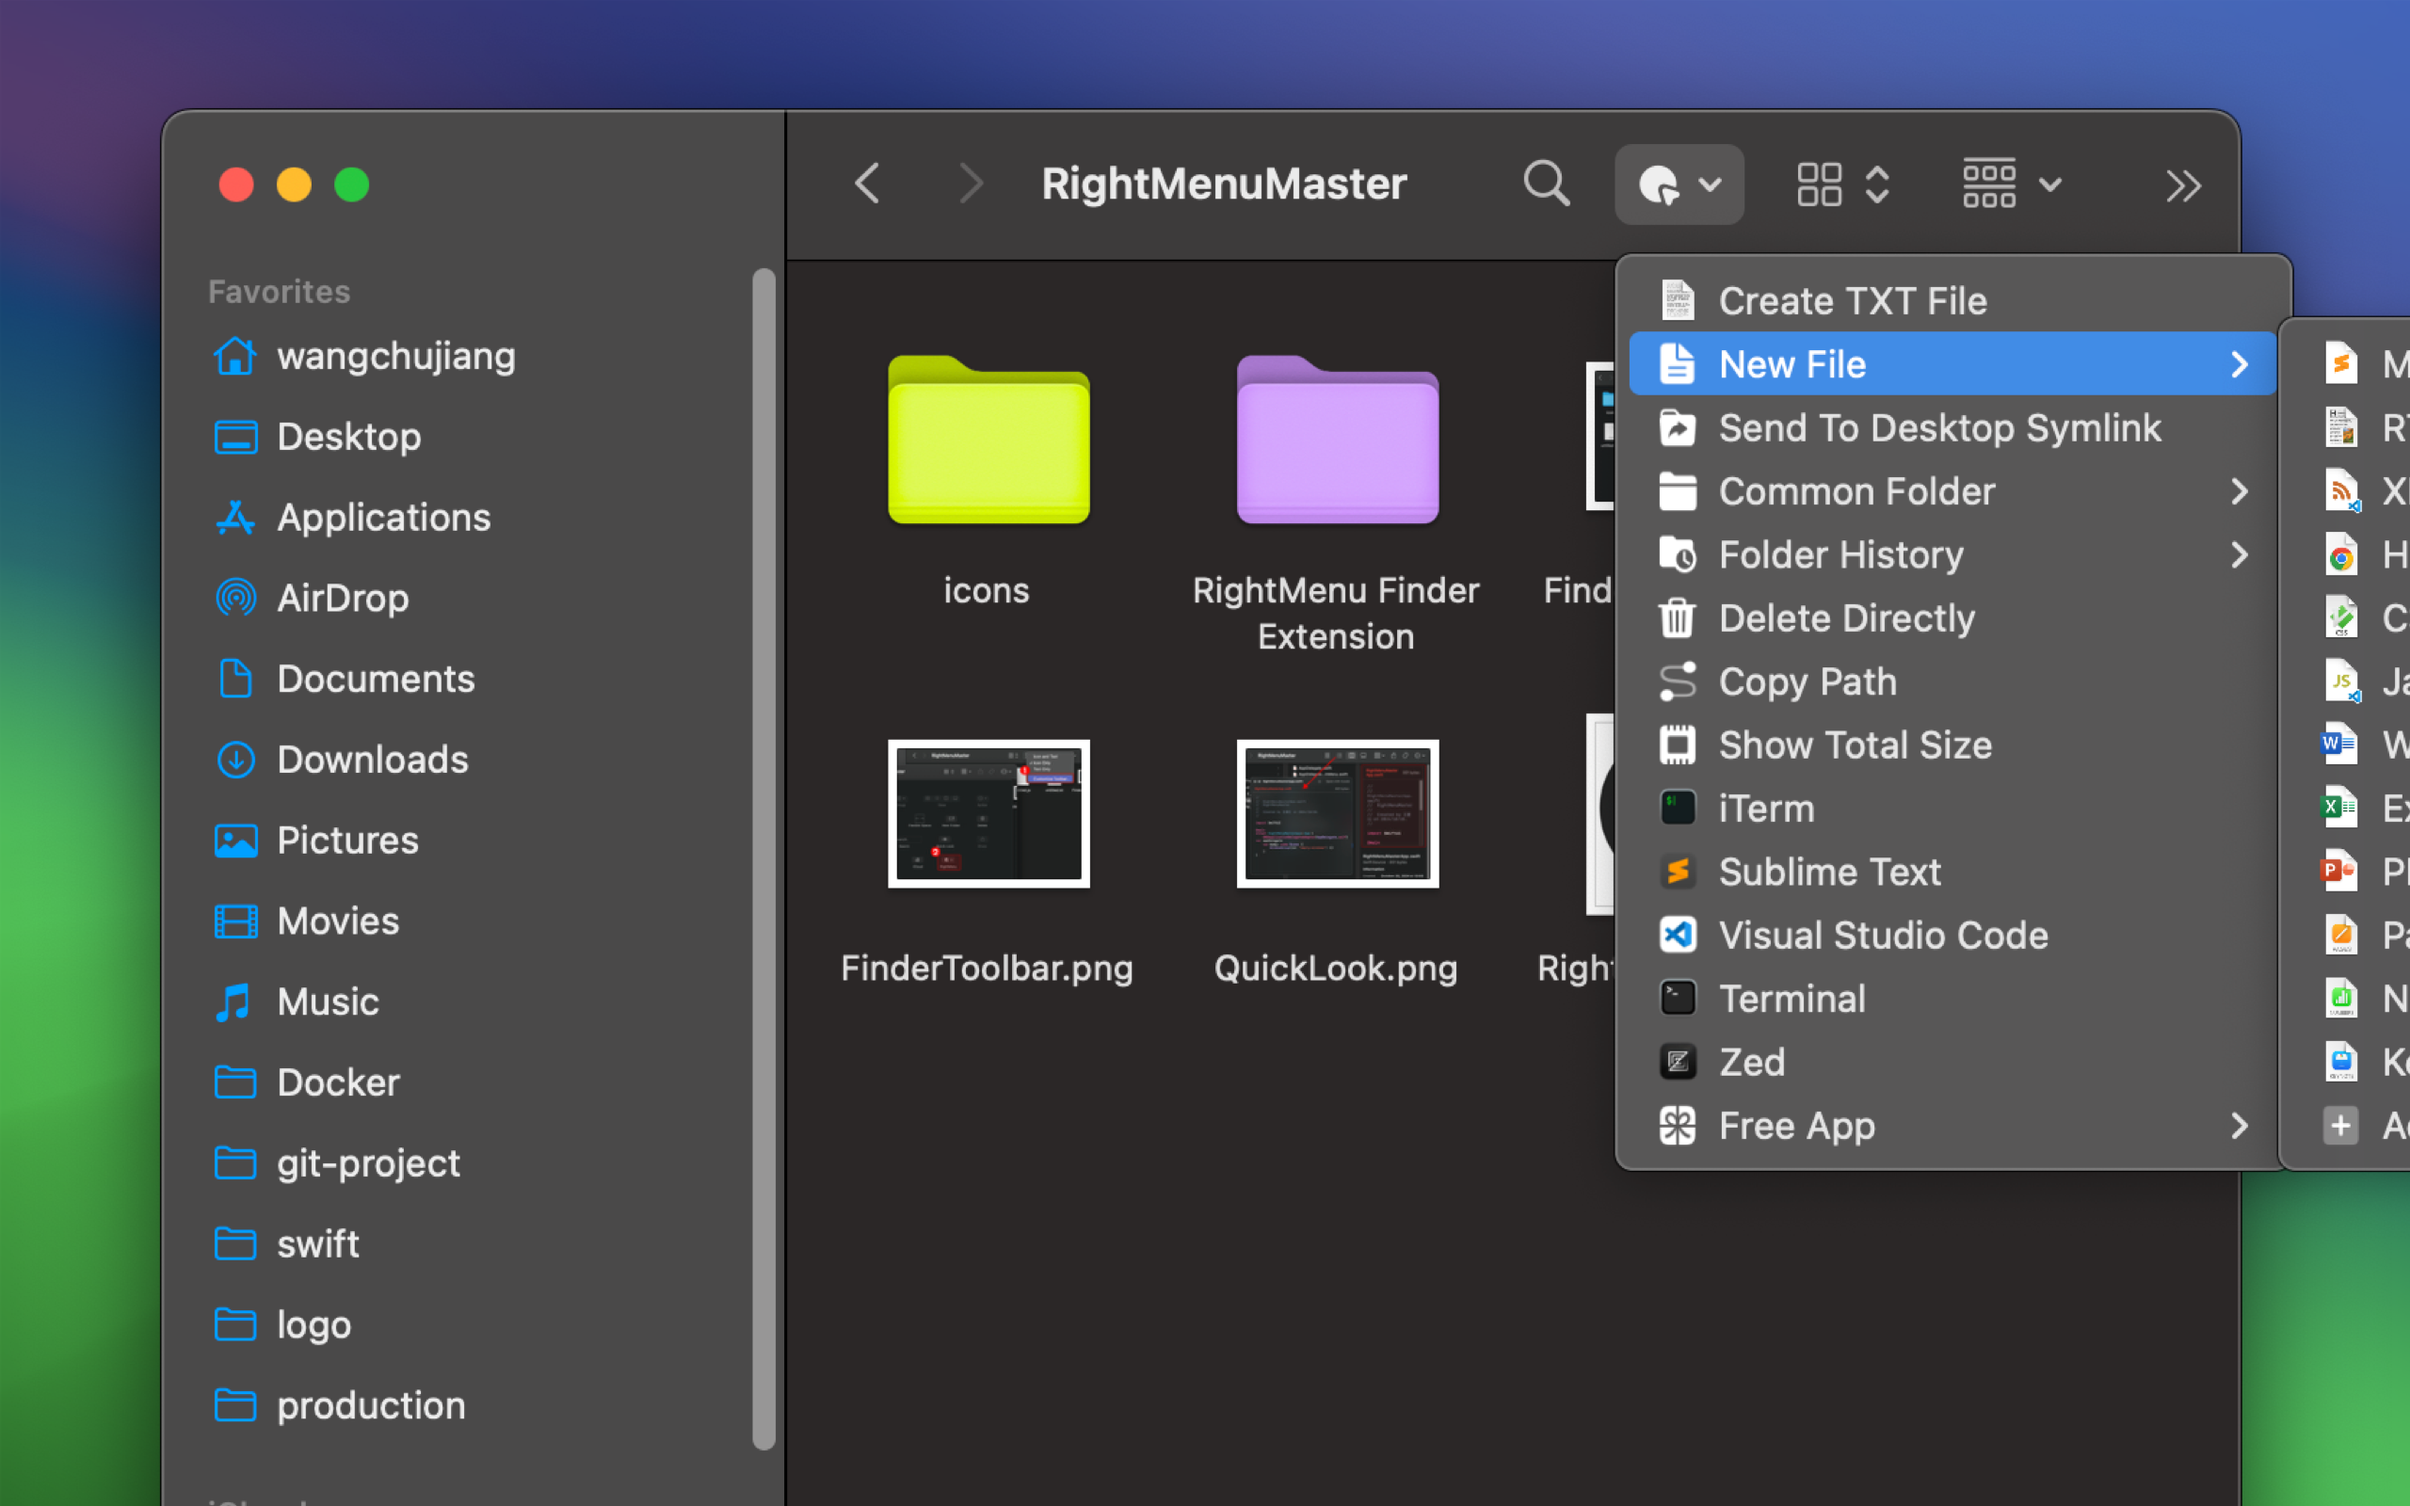
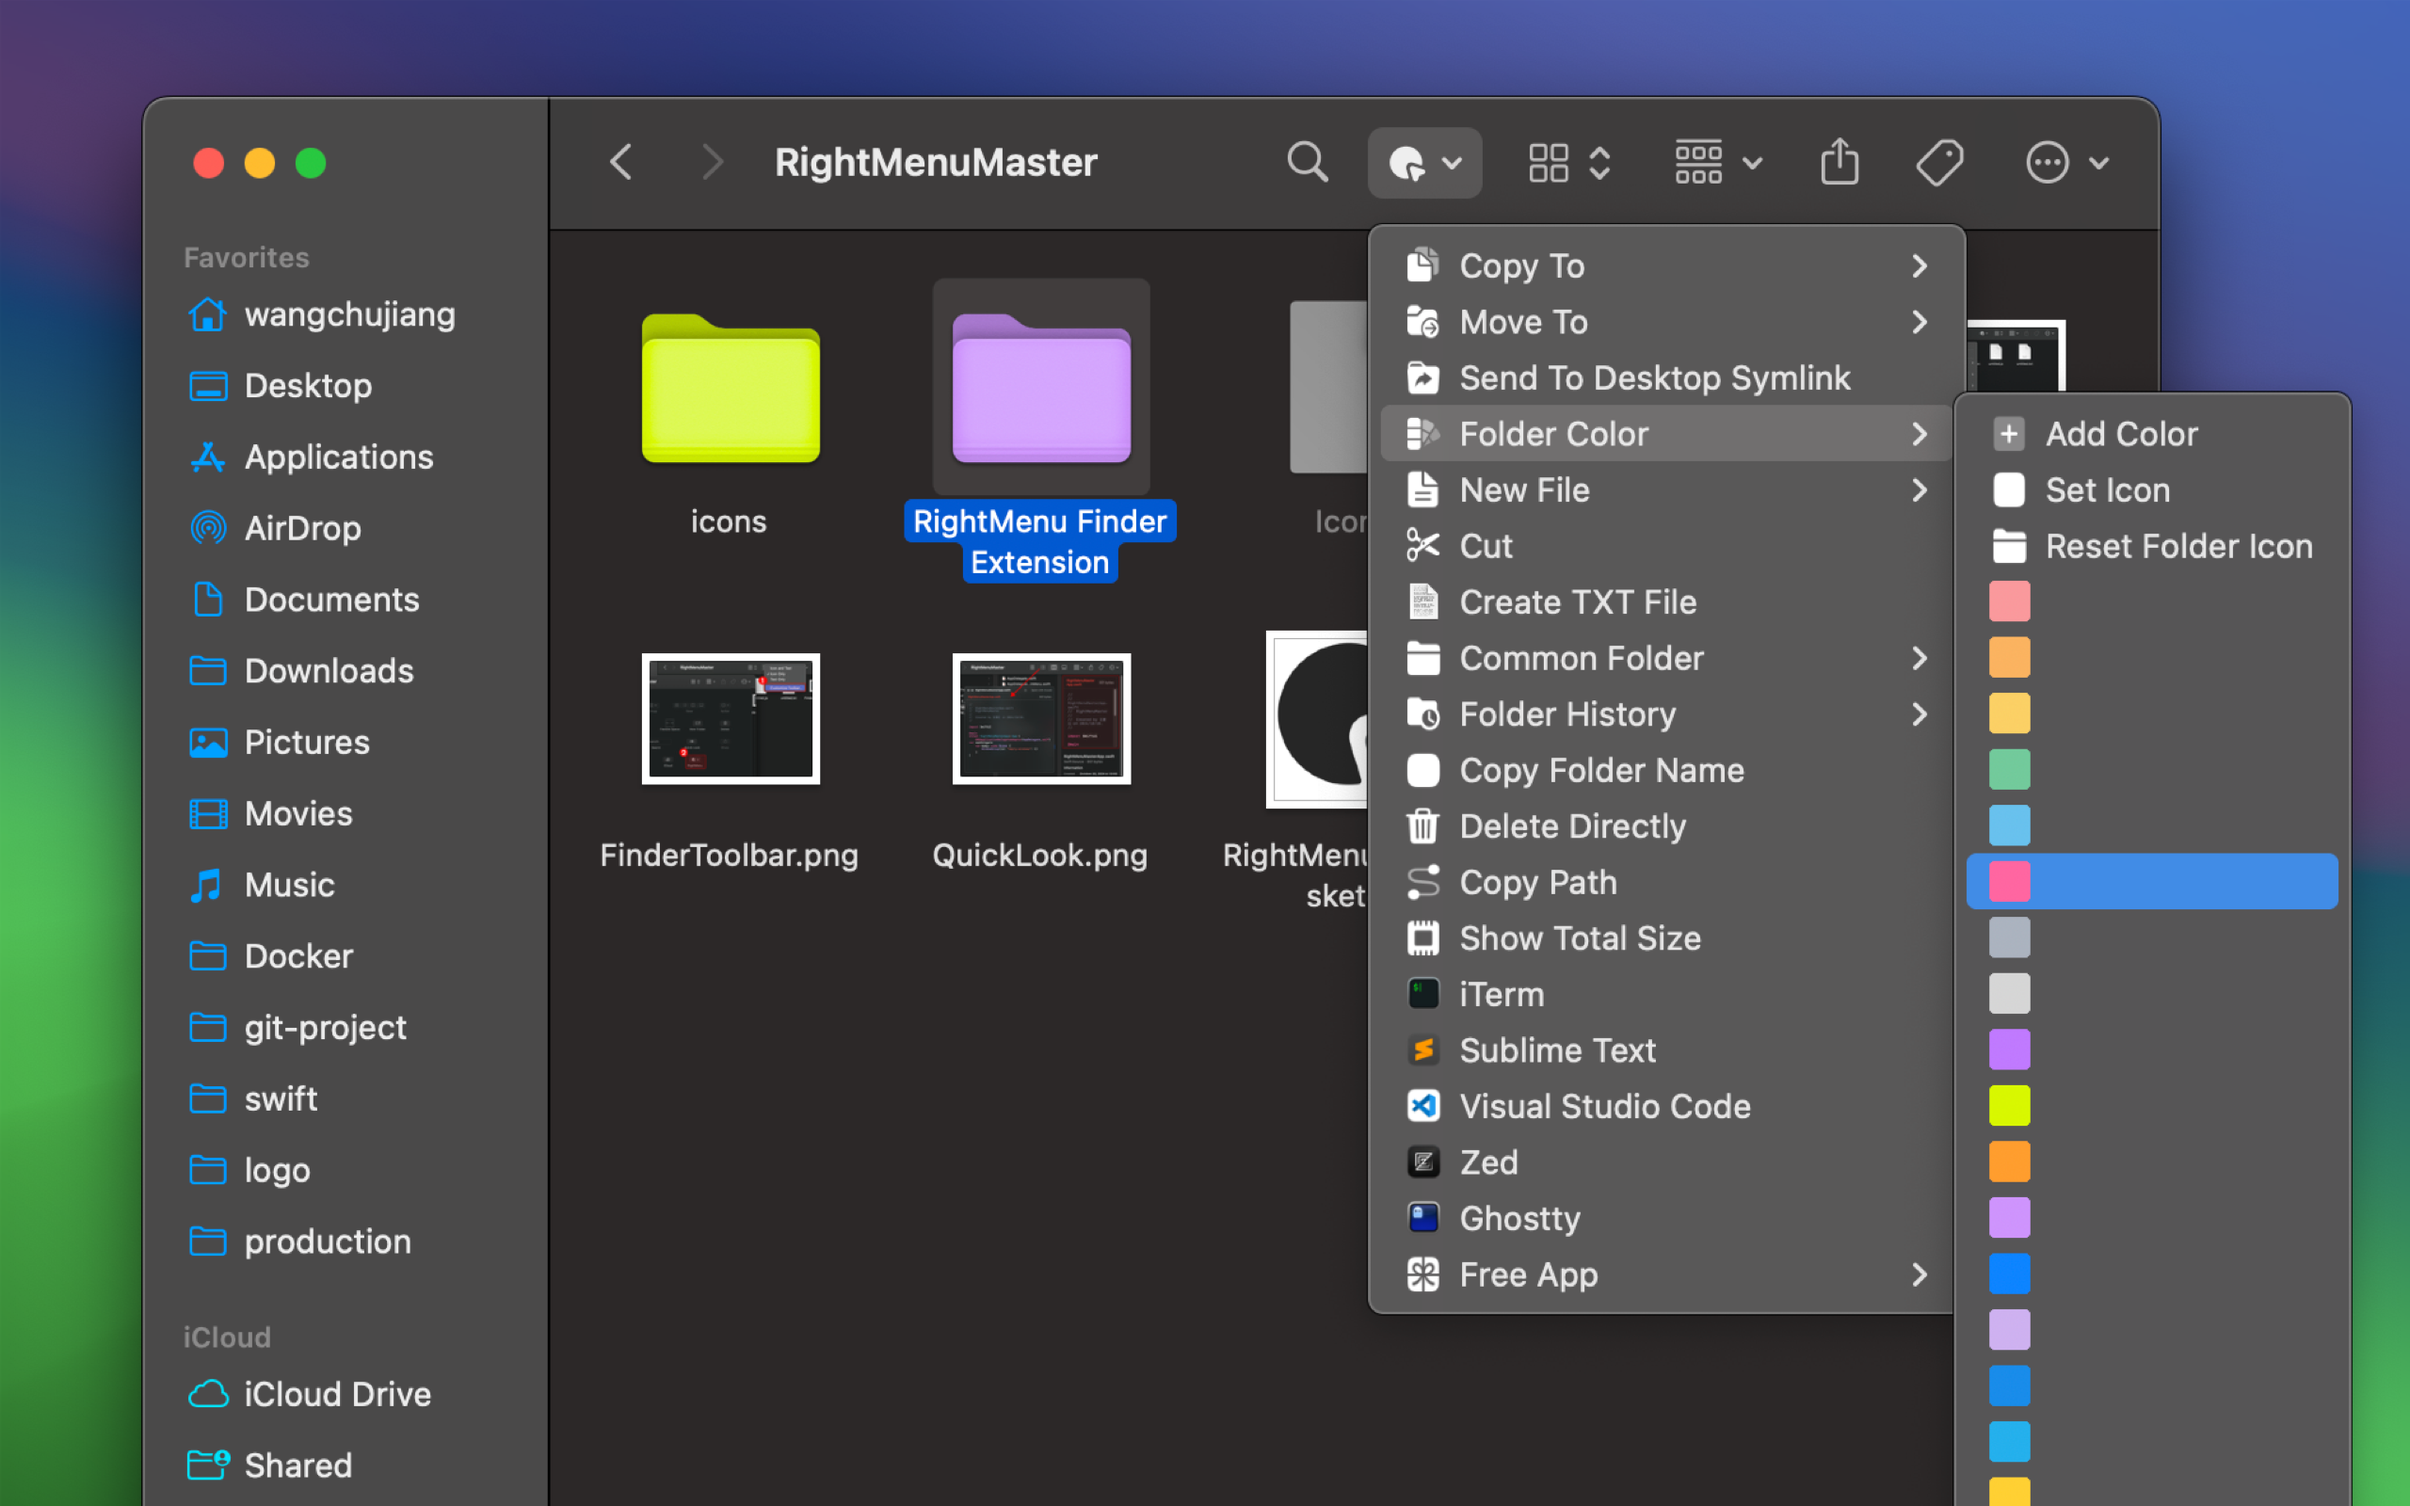
released v1.11.0

diff --git a/README.md b/README.md
@@ -49,23 +49,27 @@ RightMenu Master is a highly configurable Finder extension that adds powerful fu
 
 ## Main Features
 
-- **Create New File:** Easily create new files in specific formats and upload custom templates.
-- **Quick Preview with Syntax Highlighting:** Quickly preview code files with syntax highlighting.
-- **File QR Code Sharing:** Quickly share files via QR codes and LAN download links.
-- **Favorite Folders:** Customize favorite folders for quick access or to open a terminal window in a specific folder.
-- **Folder Access History:** Record and quickly access previously visited folders.
-- **Common Apps:** Quickly open your favorite editors or command-line tools (Terminal/iTerm).
-- **Copy Features:** Provide various copy functions to simplify file path and name management.
-- **Copy File Path:** Quickly copy the absolute path of a file.
-- **Copy Folder/File Name:** Quickly copy the name of a folder or file.
-- **Quick Paste:** Quickly paste images into Finder folders.
-- **Direct Delete:** Quickly delete files or folders, simplifying the operation.
-- **Identify and Add "Open Remote Git URL" Menu:** Automatically detect Git folders and add the "Open Remote URL" menu.
-- **Show Total Size:** Show the total size and individual sizes of selected files or folders.
-- **Set Folder Icon Color:** Quickly change or customize folder icon colors.
-- **Cut and Paste Menu:** Add cut and paste functionality to enhance file management flexibility.
-- **Create Shortcut on Desktop:** Create symbolic links (shortcuts) to files on the desktop.
-- **Menu Bar Quick Navigation:** Quickly access favorite folder apps via the menu bar, improving operational efficiency.
+- **Create New File**: Easily create new files in specific formats and upload custom templates.
+- **Quick Preview with Code Highlighting**: Support for quick preview of code files with syntax highlighting.
+- **File QR Code Sharing**: Quickly share files via QR code and local network links.
+- **Frequently Used Folders**: Customize frequently used folders for quick access or to create new terminal windows.
+- **Folder Access History**: Record and quickly access the history paths of folders.
+- **Common Applications**: Quickly open commonly used editors or command line tools (Terminal/iTerm).
+- **Copy Functions**: Provide various copy functions to simplify file path and name management.
+- **Copy File Path**: Quickly copy the absolute path of a file.
+- **Copy Folder/File Name**: Support quick copying of folder or file names.
+- **Quick Paste**: Support quickly pasting images into Finder folders.
+- **Direct Delete**: Quickly delete files or folders to simplify operations.
+- **Recognize and Add "Open Remote Git URL" Menu**: Automatically detect and add a menu to open the remote URL of Git repositories.
+- **Show Total Size**: Display the total size and individual sizes of selected multiple files or folders.
+- **Set Folder Icon Color**: Quickly change or customize the color of folder icons.
+- **Cut and Paste Menu**: Cut(⌘X) and paste(⌘V) functions to enhance file operation flexibility.
+- **Create Desktop Shortcut**: Send files to the desktop as symbolic links (shortcuts).
+- **Menu Bar Quick Navigation**: Quickly access frequently used folders and applications through the menu bar to enhance operational efficiency.
+- **Copy To**: Allow quick copying of files or folders to a specified location.
+- **Move To**: Allow quick moving of files or folders to a specified location.
+- **Convert To**: Provide image format conversion functions.
+- **Create icns Icon**: Support quick navigation for creating icns icon files.
 
 ## Frequently Asked Questions
 

diff --git a/CHANGELOG.md b/CHANGELOG.md
@@ -5,7 +5,29 @@ Changelog
   <img alt="Iconize Folder AppStore" src="https://jaywcjlove.github.io/sb/download/macos.svg" height="51">
 </a>
 
-## [v1.10.0](https://github.com/jaywcjlove/rightmenu-master/releases)
+## [v1.11.0](https://github.com/jaywcjlove/rightmenu-master/releases)
+
+1. feat: Add `copyTo` menu.
+2. feat: Add `reset folder icon` menu.
+3. feat: Add history tracking for target folders in move operations.
+4. feat: Add `moveTo` menu.
+5. feat: Add `create icns icon` menu.
+6. feat: Add `convertTo` menu.
+7. fix: Fix issue with selected files.
+8. feat: Add shortcuts ⌘X/⌘V for cut and paste.
+
+---
+
+1. 功能: 添加 `复制到` 菜单。
+2. 功能: 添加 `重置文件夹图标` 菜单。
+3. 功能: 在移动操作中添加目标文件夹的历史记录。
+4. 功能: 添加 `移动到` 菜单。
+5. 功能: 添加 `创建 icns 图标` 菜单。
+6. 功能: 添加 `转为格式` 菜单。
+7. 修复: 修复已选文件的问题。
+8. 功能: 添加快捷键 ⌘X/⌘V 用于剪切和粘贴。
+
+## [v1.10.0](https://github.com/jaywcjlove/rightmenu-master/releases/tag/v1.10.0)
 
 1. fix: fix issue with jumping to enable Finder extension on macOS 15.2
 2. fix: fix issue with title not appearing on macOS 15.2
